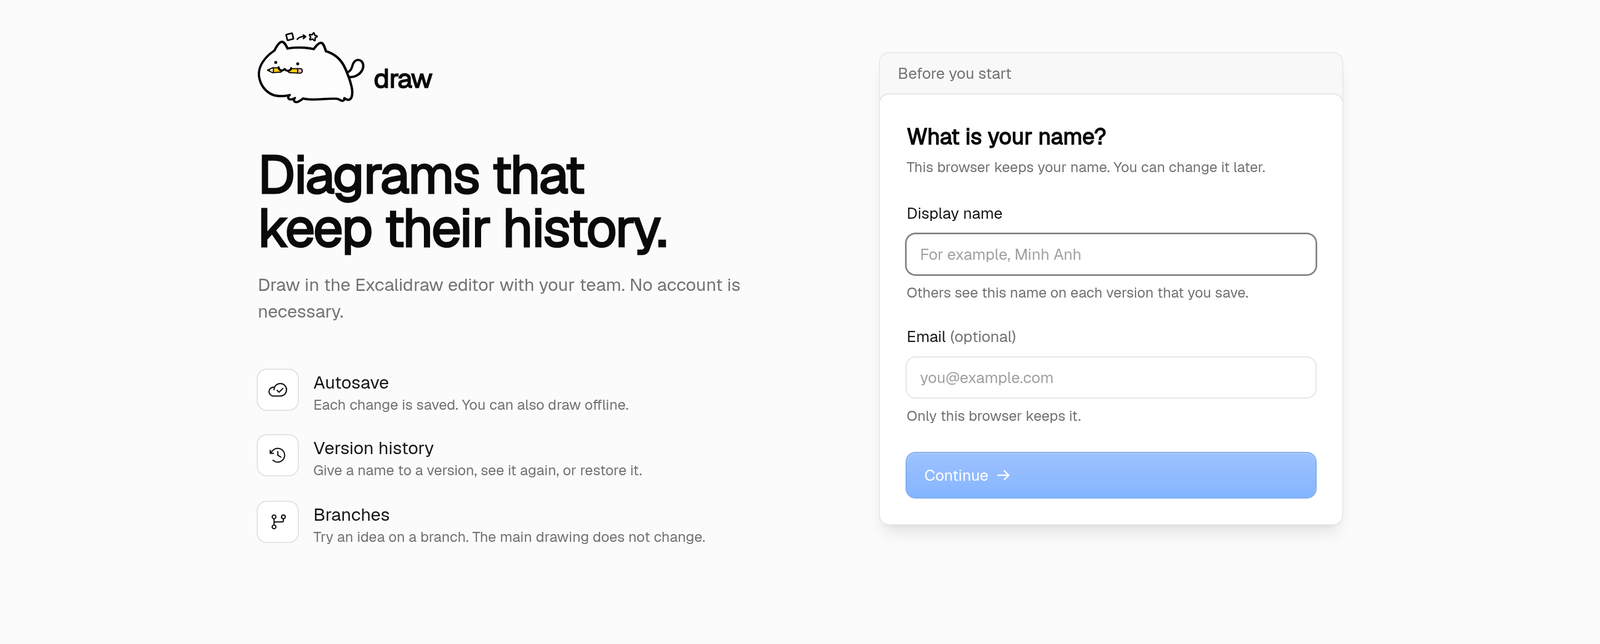
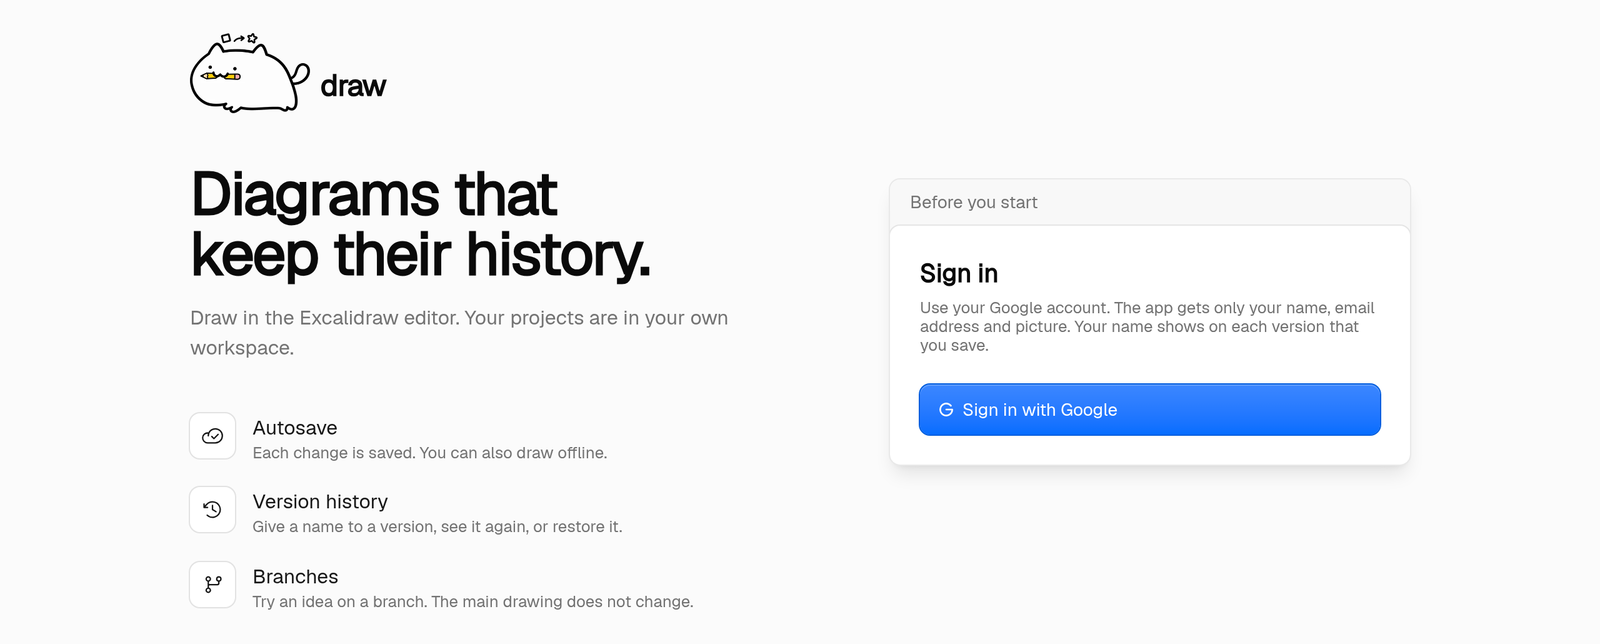
Document Google sign-in and workspaces
Amp-Thread-ID: https://ampcode.com/threads/T-01a1ffe7-6c9f-725e-8054-2ec2cc29c703

diff --git a/docs/architecture.md b/docs/architecture.md
@@ -4,7 +4,7 @@ This document tells how the draw app works. It is based on the code on `main`. T
 
 ## Overview
 
-The app is an Excalidraw editor with a project list, autosave, a version history with named versions, and branches. There is no login. All persons who have the URL see all projects, and each person types a display name one time.
+The app is an Excalidraw editor with a project list, autosave, a version history with named versions, and branches. Each person signs in with Google. Each user has one workspace, and only that user sees its projects. The Google name is the author of each version.
 
 One Cloudflare Worker serves the React app and the API.
 
@@ -21,7 +21,7 @@ flowchart LR
     UI["React app<br/>ProjectList, Editor, History"]
     Sync["ProjectSync<br/>(sync.ts)"]
     IDB[("IndexedDB<br/>local copy, images, library")]
-    LS[("localStorage<br/>name, email")]
+    LS[("localStorage<br/>last user")]
     UI --> Sync
     Sync <--> IDB
     UI --> LS
@@ -64,7 +64,7 @@ The app has two pages and no router library. `App.tsx` reads `location.pathname`
 
 | Path | Page |
 | --- | --- |
-| any path, when the browser has no display name | `WelcomePage` (`Profile.tsx`). It asks for a display name and an optional email. Both stay in `localStorage` (`draw.author`, `draw.email`). The server never gets the email. |
+| any path, when the browser has no session | `WelcomePage` (`Profile.tsx`) with "Sign in with Google". After the sign-in, the browser opens the same path again. |
 | `/` | `ProjectList.tsx`: the project cards with thumbnails, the Projects and Trash tabs, New project, Rename, Move to trash and Restore. |
 | `/p/<id>` and `/p/<id>?branch=<name>` | `Editor.tsx`, loaded with `React.lazy` because it is large. `main` has no `branch` parameter. A switch of branch opens a new editor. |
 
@@ -75,7 +75,7 @@ Other files:
 | File | Task |
 | --- | --- |
 | `sync.ts` | `ProjectSync`: autosave, the local copy, the WebSocket, the edit lock, restore. See [Autosave and sync](#autosave-and-sync). |
-| `api.ts` | The HTTP calls, the editor path, and the name and email in `localStorage`. |
+| `api.ts` | The HTTP calls, the editor path, the signed-in user (`getMe`, `signOut`), and the `draw:signed-out` event that a 401 sends. |
 | `History.tsx` | The History sidebar: branch selector, "Named versions only" switch, the version graph, and the read-only `VersionPreview`. |
 | `graph.ts` | `layoutGraph`: puts the versions of all branches into lanes like a git graph. |
 | `images.ts` | Loads an image from IndexedDB or from the server. |
@@ -108,37 +108,58 @@ The Worker is a Hono app. `wrangler.jsonc` sets `run_worker_first: ["/api/*"]`, 
 
 | Method and path | Goes to | Task |
 | --- | --- | --- |
-| `GET /api/health` | D1 | Returns `{ ok, colo }`. |
-| `GET /api/projects?trash=1` | D1 | The projects, or the projects in the trash, newest change first. |
-| `POST /api/projects` | D1 | Creates a project with a random UUID. |
+| `GET /api/health` | D1 | Returns `{ ok, colo }`. No session is necessary. |
+| `GET /api/auth/google?next=` | Google | Starts the sign-in. Keeps `state`, `nonce` and the PKCE verifier in the `__Host-draw_signin` cookie (10 minutes) and redirects to Google. |
+| `GET /api/auth/google/callback` | Google, D1 | Checks `state`, sends the code to Google's token endpoint, checks the ID token, finds or makes the user and the workspace, sets the session cookie, and opens `next`. A failure opens `/?signin=failed`. |
+| `GET /api/auth/me` | D1 | The signed-in user, or 401. |
+| `POST /api/auth/logout` | D1 | Deletes the session. |
+| `GET /api/projects?trash=1` | D1 | The projects of the user's workspace, or the projects in its trash, newest change first. |
+| `POST /api/projects` | D1 | Creates a project with a random UUID in the user's workspace. |
 | `GET /api/projects/:id` | D1 | One project. |
 | `PATCH /api/projects/:id` | D1 | Changes `name`, `trashed` or `thumb`. A new thumbnail also sets `updated_at`, so the project moves to the top. |
 | `GET /api/projects/:id/ws` | Durable Object `fetch` | The WebSocket upgrade. Other requests get 426. |
 | `PUT /api/projects/:id/images/:fileId` | `putImage` RPC | Stores an image of at most 1.5 MB (413 if larger). |
-| `GET /api/projects/:id/images/:fileId` | `getImage` RPC | Returns the image with `Cache-Control: immutable`, because the file id comes from the content. |
+| `GET /api/projects/:id/images/:fileId` | `getImage` RPC | Returns the image with `Cache-Control: private, immutable`, because the file id comes from the content and only the owner can read it. |
 | `GET /api/projects/:id/versions?branch=&all=1&named=1&limit=` | `listVersions` RPC | The versions, newest first, at most 500. |
 | `GET /api/projects/:id/versions/:versionId/scene` | `getVersionScene` RPC | The gzip scene of a version, for the preview. |
 | `PATCH /api/projects/:id/versions/:versionId` | `nameVersion` RPC | Gives a name, or removes it with an empty name. |
 | `GET /api/projects/:id/branches` | `listBranches` RPC | The branches, `main` first. |
-| `POST /api/projects/:id/branches` | `createBranch` RPC | Creates a branch from a version. 409 if the name exists. |
+| `POST /api/projects/:id/branches` | `createBranch` RPC | Creates a branch from a version. The author of its first version is the signed-in user. 409 if the name exists. |
 | `PATCH /api/projects/:id/branches/:name` | `renameBranch` RPC | Renames a branch. `main` cannot be renamed. |
 | `DELETE /api/projects/:id/branches/:name` | `deleteBranch` RPC | Deletes a branch and all its versions. `main` cannot be deleted. |
 
+### Sign-in and access
+
+`packages/server/src/auth.ts` has the Google sign-in and the sessions. There is no auth library.
+
+- The app asks Google only for `openid email profile`. It keeps no Google token.
+- The ID token comes straight from Google's token endpoint over TLS, so the Worker does not check its signature ([OpenID Connect Core 3.1.3.7](https://openid.net/specs/openid-connect-core-1_0.html), item 6). It checks `iss`, `aud`, `exp`, `nonce` and `email_verified`. This keeps the sign-in far below the 10 ms CPU limit of the Free plan. A password hash would not fit.
+- The user is found by the Google `sub`, not by the email, because an email can change. The name, the email and the picture follow the Google account at each sign-in.
+- The session cookie `__Host-draw_session` (`HttpOnly`, `Secure`, `SameSite=Lax`) holds a random 32-byte token. D1 keeps only its SHA-256. A session lasts 30 days, and a request with less than 15 days left extends it.
+- Each `/api/projects*` route needs a session (401 if not). Each `/api/projects/:id*` route also needs the project to be in the user's workspace. Else the answer is 404, so nobody learns which project ids exist.
+- `hono/csrf` refuses a form post from a different site. The WebSocket route refuses a different `Origin`.
+- The browser cannot read the HTTP status of a refused WebSocket upgrade. So the Worker accepts the socket and closes it with 4401 (no session) or 4404 (not your project). The editor then stops and does not connect again.
+
 The Worker gets the Durable Object with `env.PROJECT_REPO.getByName(projectId)`, so each project id always maps to the same object. A method of the object that returns a failure (`{ error, status }`) becomes an HTTP error with that status.
 
-### D1: the project list
+### D1: the project list and the accounts
 
-The D1 database has one table. The Worker runs `CREATE TABLE IF NOT EXISTS` one time for each Worker instance, so a new database needs no manual migration.
+`packages/server/src/db.ts` makes the schema one time for each Worker instance, with `CREATE TABLE IF NOT EXISTS` and a check of `PRAGMA table_info` before the `ALTER TABLE`. A new database needs no manual migration.
 
 ```sql
-CREATE TABLE IF NOT EXISTS projects (
+CREATE TABLE projects (
   id TEXT PRIMARY KEY,
   name TEXT NOT NULL,
   thumb TEXT NOT NULL DEFAULT '',   -- PNG data URL, at most 200,000 characters
   created_at INTEGER NOT NULL,
   updated_at INTEGER NOT NULL,
-  deleted_at INTEGER                -- not null when the project is in the trash
-)
+  deleted_at INTEGER,               -- not null when the project is in the trash
+  workspace_id TEXT                 -- null for a project from before the accounts: nobody sees it
+);
+CREATE TABLE users (id, email, name, picture, created_at);
+CREATE TABLE identities (provider, subject, user_id);   -- ('google', sub); a second provider adds rows
+CREATE TABLE sessions (id, user_id, expires_at, created_at);  -- id = SHA-256 of the cookie token
+CREATE TABLE workspaces (id, owner_id, name, created_at);     -- one for each user now
 ```
 
 The project list reads only this table. It does not wake a Durable Object.
@@ -186,13 +207,13 @@ The object uses the Hibernation WebSocket API (`ctx.acceptWebSocket`). Clients s
 ```ts
 interface Attachment {
   client: string; // random id of one page load
-  author: string; // display name
+  author: string; // the Google name of the user, set by the Worker
   branch: string; // the branch that the socket shows
   editor: boolean; // true for the one socket that edits the branch
 }
 ```
 
-The browser connects to `/api/projects/:id/ws?branch=&author=&client=&known=`. `known` is the hash of the scene that the browser has.
+The browser connects to `/api/projects/:id/ws?branch=&client=&known=`. `known` is the hash of the scene that the browser has. The Worker adds `author` with the name of the signed-in user, so a browser cannot save as a different person.
 
 Messages from the browser:
 
@@ -326,7 +347,7 @@ A viewer shows each `scene` frame and replaces its scene. A browser that loses t
 | IndexedDB `draw`/`local` | `scene:<projectId>:<branch>` | The local copy of each branch |
 | IndexedDB `draw`/`local` | `file:<projectId>:<fileId>` | The pasted images |
 | IndexedDB `draw-library`/`library` | `items` | The Excalidraw library. The first time, it is the 13 default libraries from `public/libraries` (from [libraries.excalidraw.com](https://libraries.excalidraw.com)). |
-| `localStorage` | `draw.author`, `draw.email` | The display name (the author of each version) and the optional email |
+| `localStorage` | `draw.user` | The last signed-in user, so the app opens offline. `/api/auth/me` replaces it at each start. |
 
 ## Tests
 
@@ -337,7 +358,9 @@ A viewer shows each `scene` frame and replaces its scene. A browser that loses t
 
 ## Limits
 
-- There is no login. All persons with the URL can read, change and delete all projects. The trash makes a project delete reversible. Cloudflare Access can be added later without a code change.
+- Each workspace has one user. Two persons cannot open the same project. The edit lock is for one person with two tabs or two devices.
+- Sign-in uses only Google. A person with no Google account cannot use the app.
+- The local copies in IndexedDB do not have the user in their key. After a sign-out, they stay in the browser.
 - One person edits a branch at a time. There is no live editing of one branch by two persons, and no merge of branches.
 - A browser that was offline on a branch, and comes back after a rename or a delete of that branch, opens `main`. Its unsaved changes on that branch stay in IndexedDB, but the app does not show them.
 - A restore replaces the scene. If a browser has unsaved changes from before the restore and takes over later, the merge can bring back elements that the restore removed.

diff --git a/docs/sequences.md b/docs/sequences.md
@@ -43,21 +43,35 @@ sequenceDiagram
   participant W as Worker
   participant D1
 
+  participant G as Google
+
   U->>App: open /
-  alt no display name in localStorage
-    App-->>U: WelcomePage asks for the name and an optional email
-    U->>App: Continue
-    App->>App: store draw.author and draw.email in localStorage
+  App->>W: GET /api/auth/me (session cookie)
+  W->>D1: create the schema if necessary (one time for each Worker instance)
+  alt no session
+    W-->>App: 401
+    App-->>U: WelcomePage with Sign in with Google
+    U->>W: GET /api/auth/google?next=/
+    W-->>U: 302 to Google, cookie with state, nonce, PKCE verifier
+    U->>G: choose an account
+    G-->>U: 302 to /api/auth/google/callback?code&state
+    U->>W: GET /api/auth/google/callback
+    W->>G: POST token endpoint (code, client secret, PKCE verifier)
+    G-->>W: ID token
+    W->>W: check state, iss, aud, exp, nonce, email_verified
+    W->>D1: find the user by Google sub, or INSERT user, identity, workspace
+    W->>D1: INSERT session (SHA-256 of the token)
+    W-->>U: 302 to next, session cookie
   end
+  W-->>App: User (name, email, picture)
   App->>W: GET /api/projects
-  W->>D1: CREATE TABLE IF NOT EXISTS projects (one time for each Worker instance)
-  W->>D1: SELECT * FROM projects WHERE deleted_at IS NULL ORDER BY updated_at DESC
+  W->>D1: SELECT * FROM projects WHERE workspace_id = ? AND deleted_at IS NULL ORDER BY updated_at DESC
   D1-->>W: rows
   W-->>App: Project[] with thumbnails
   App-->>U: project cards
   U->>App: New project
   App->>W: POST /api/projects with the name
-  W->>D1: INSERT INTO projects
+  W->>D1: INSERT INTO projects with the workspace of the user
   W-->>App: 201 Project
   App->>App: navigate to /p/id
 ```
@@ -77,9 +91,9 @@ sequenceDiagram
   participant D1
 
   E->>W: GET /api/projects/id
-  W->>D1: SELECT the project
+  W->>D1: session, and the project in the user's workspace? else 404
   W-->>E: name for the status bar
-  E->>S: new ProjectSync(projectId, branch, author)
+  E->>S: new ProjectSync(projectId, branch)
   par
     S->>IDB: get scene:projectId:branch
     IDB-->>S: LocalCopy (json, baseHash, dirty) or nothing
@@ -88,8 +102,9 @@ sequenceDiagram
   end
   E->>E: show Excalidraw with the local copy
   E->>S: connect() in onInitialize
-  S->>W: WebSocket /api/projects/id/ws with branch, author, client, known=baseHash
-  W->>DO: getByName(id).fetch(upgrade request)
+  S->>W: WebSocket /api/projects/id/ws with branch, client, known=baseHash
+  W->>D1: session, and the project in the user's workspace? else close 4401 or 4404
+  W->>DO: getByName(id).fetch(upgrade request with author = the user's name)
   DO->>DO: branch exists? first socket of the branch is the editor
   DO->>DO: acceptWebSocket, serializeAttachment(client, author, branch, editor)
   DO-->>S: hello (role, editor name, head, imageIds)
@@ -415,8 +430,8 @@ sequenceDiagram
     S->>DO: save frame
     DO-->>S: saved
   end
-  E->>W: POST /api/projects/id/branches (name, fromVersionId, author)
-  W->>DO: createBranch RPC
+  E->>W: POST /api/projects/id/branches (name, fromVersionId)
+  W->>DO: createBranch RPC with author = the user's name
   DO->>DO: name empty? 400. name exists? 409. version missing? 404
   DO->>DO: INSERT INTO branches (name, from_version_id)
   DO->>DO: INSERT the first version of the branch with a copy of the scene

diff --git a/docs/deploy.md b/docs/deploy.md
@@ -62,18 +62,29 @@ The Worker code reads the bindings from `env` (`Env` in `packages/server/src/ind
 export interface Env {
   PROJECT_REPO: DurableObjectNamespace<ProjectRepo>;
   DB: D1Database;
+  GOOGLE_CLIENT_ID: string;
+  GOOGLE_CLIENT_SECRET: string;
 }
 ```
 
 | Binding | Type | Used by |
 | --- | --- | --- |
 | `PROJECT_REPO` | Durable Object namespace | The WebSocket route (`stub.fetch`) and the routes of versions, branches and images (RPC methods on the stub) |
-| `DB` | D1 database | The routes of the project list and `/api/health` |
+| `DB` | D1 database | The routes of the project list, the accounts and `/api/health` |
+| `GOOGLE_CLIENT_ID` | Variable in `wrangler.jsonc` | The Google OAuth client. It is not secret. |
+| `GOOGLE_CLIENT_SECRET` | Secret | The secret of the Google OAuth client |
 | `ASSETS` | Static assets | Added by Wrangler. The code does not use it directly. |
 
 ### Secrets and variables
 
-The Worker has **no secrets and no environment variables**. There is no login, no third-party API, and no key in the code.
+The Worker has one variable and one secret, for "Sign in with Google".
+
+| Name | Where | Value |
+| --- | --- | --- |
+| `GOOGLE_CLIENT_ID` | `vars` in `wrangler.jsonc` | The client ID of the OAuth client `draw web` in the Google Cloud project `draw` |
+| `GOOGLE_CLIENT_SECRET` | `npx wrangler secret put GOOGLE_CLIENT_SECRET` in `apps/web`, or the dashboard: Worker `draw` > Settings > Variables and Secrets, type Secret | The client secret. Google shows it only when you make the client. |
+
+For local dev, put both in `apps/web/.dev.vars`. The OAuth client has two redirect URIs: `https://draw.huynhduongsh1.workers.dev/api/auth/google/callback` and `http://localhost:5173/api/auth/google/callback`. Open the local app on `localhost`, not `127.0.0.1`, or Google refuses the redirect.
 
 The deploy needs two values in the shell or in CI. They are not stored in the Worker:
 
@@ -186,7 +197,7 @@ No schema step is necessary. The Worker creates the D1 `projects` table at the f
 | A new column in D1 | Add an `ALTER TABLE` step. `CREATE TABLE IF NOT EXISTS` does not change an existing table. |
 | A new column in the Durable Object | Add the step in the `ProjectRepo` constructor. Each object runs it when it starts. |
 | A custom domain | Add `routes` with `custom_domain: true` in `wrangler.jsonc`, or add it in the dashboard. |
-| Login | Put Cloudflare Access in front of the domain. No code change is necessary. |
+| A custom domain and Google sign-in | Add `https://<domain>/api/auth/google/callback` to the redirect URIs of the Google OAuth client. |
 
 ## Local development
 

diff --git a/docs/plan.md b/docs/plan.md
@@ -11,7 +11,7 @@ The repository name and the version rules are in "Decisions".
 | One person edits a branch | The first person who opens a branch edits it. Other persons see the branch as read-only, and they see each save. |
 | DFVN Excalifont, Geist and Geist Mono | "Hand-drawn" uses DFVN Excalifont. "Normal" uses Geist. "Code" uses Geist Mono. The app ships the three font files. |
 | No serif font | Excalidraw has no serif text style, and the plan adds none. |
-| No login, one workspace | All persons with the URL see all projects. Each person types a name one time, and the name is the author of each version. |
+| No login, one workspace | All persons with the URL see all projects. Each person types a name one time, and the name is the author of each version. Replaced later by Google sign-in with one workspace for each user (see [architecture.md](architecture.md#sign-in-and-access)). |
 | Autosave makes the history, and a name makes a commit | Each project has a list of autosave versions. You can give a name to a version, and you can create a branch from a version. |
 | No merge | Version 1 has no merge of branches. |
 | Latest Excalidraw, for the minimap | The plan pins the build `0.18.0-3a317b5`. |
@@ -330,7 +330,7 @@ The plan has no UI component library and no router library. The app has two page
 
 ## Risks
 
-- All persons who have the URL can read, change and delete all projects, because there is no login. The trash list makes a delete reversible. Cloudflare Access can be added later with no code change.
+- Version 1 had no login. Google sign-in with one workspace for each user replaced it. A username and password were not used, because a strong password hash needs more than the 10 ms CPU limit of the Free plan.
 - A version with no name is deleted after 30 days. Give a name to each version that you want to keep.
 - The pinned Excalidraw build is not a release. A later build can change the `Fonts` class or the minimap. The signal is a type error or mixed fonts after an upgrade.
 - Vite+ with the Cloudflare plugin works in Phase 0 for dev, build and deploy. If a later version breaks it, the fallback is `wrangler dev` for the Worker and a Vite proxy for `/api`.

diff --git a/README.md b/README.md
@@ -17,19 +17,19 @@
   <a href="docs/plan.md">Plan</a>
 </p>
 
-The app runs on the Cloudflare free plan: one Worker, one Durable Object with SQLite for each project, and one D1 database. There is no login. Each person types a display name one time, and the name is the author of each version.
+The app runs on the Cloudflare free plan: one Worker, one Durable Object with SQLite for each project, and one D1 database. Each person signs in with Google and has their own workspace. The Google name is the author of each version.
 
 ## Features
 
 ### First page
 
-Type a display name and an optional email. Only this browser keeps them.
+Sign in with your Google account. The app gets only your name, email address and picture.
 
-![First page with the mascot, the feature list and the name form](docs/images/readme/first-page.png)
+![First page with the mascot, the feature list and the Sign in with Google button](docs/images/readme/first-page.png)
 
 ### Project list
 
-Create, rename, move to trash and restore projects. Each card shows a thumbnail of the `main` branch.
+Create, rename, move to trash and restore projects. Only you see your projects. Each card shows a thumbnail of the `main` branch.
 
 ![Project list with four project cards and the Projects and Trash tabs](docs/images/readme/project-list.png)
 
